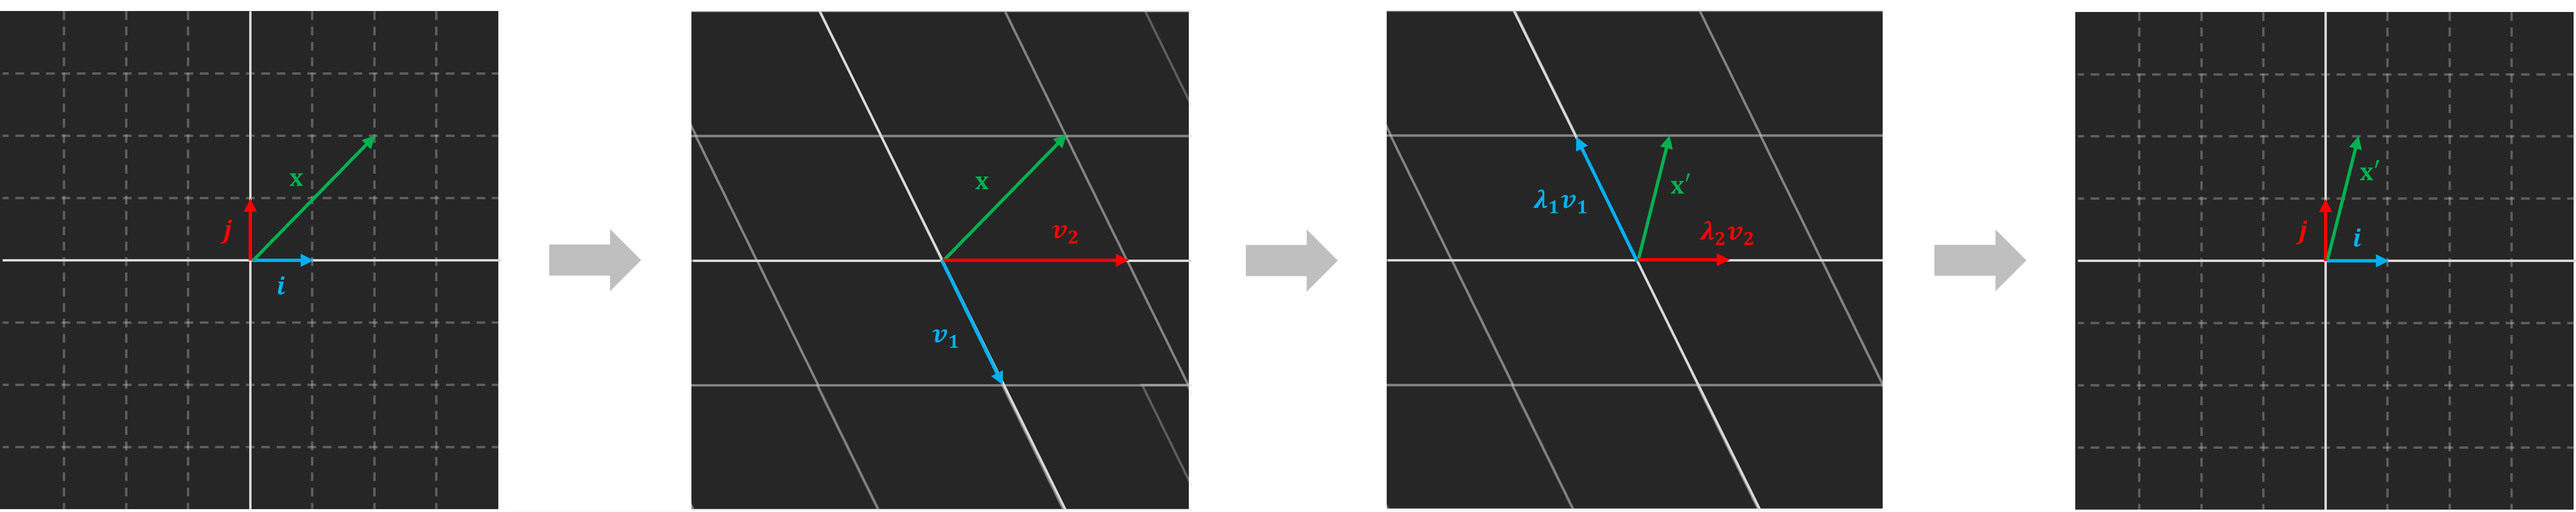
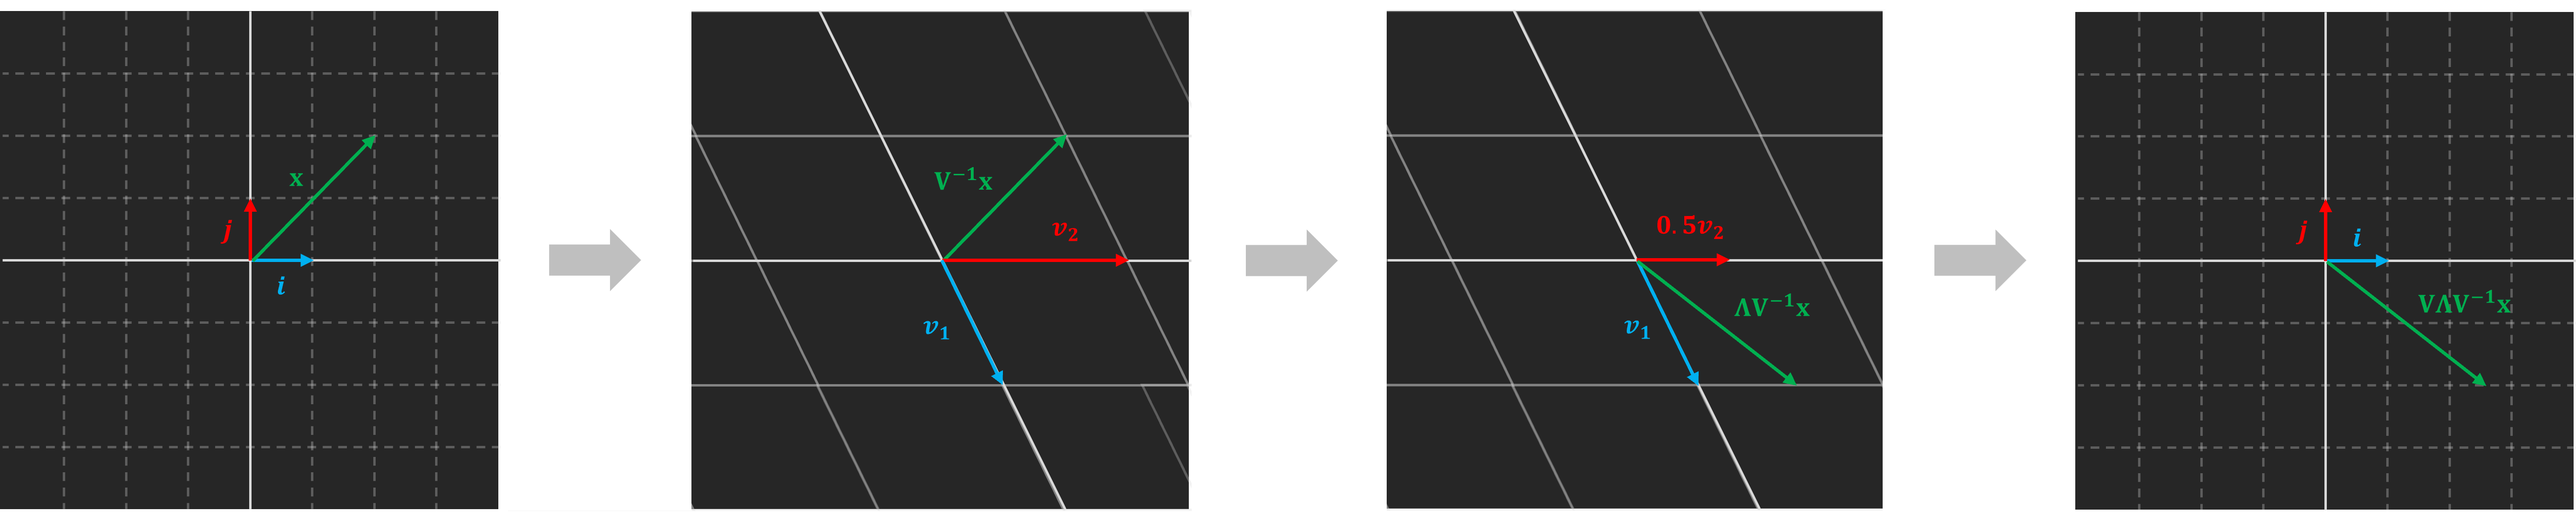
all

diff --git a/_posts/Mathematics/Linear_Algebra/2025-08-02-EVD.md b/_posts/Mathematics/Linear_Algebra/2025-08-02-EVD.md
@@ -49,7 +49,7 @@ $$
 
 ## 고유값 분해 (EVD - Eigenvalue Decomposition)
 
-EVD는 정사각 행렬 $A$를 고유벡터 행렬과 고유값이 대각 원소로 구성된 대각행렬로 분해하는 방법이다.
+EVD는 정사각 행렬 $A\in\mathbb{R}^{m\times m}$를 고유벡터 행렬과 고유값이 대각 원소로 구성된 대각행렬로 분해하는 방법이다.
 
 $$
 A=V\Lambda V^{-1}
@@ -60,11 +60,14 @@ $$
 
    $$
    V=\begin{bmatrix}|&|&&|\\\mathbf{v}_1&\mathbf{v}_2&\cdots&\mathbf{v}_n\\|&|&&|\end{bmatrix}
+   \in\mathbb{R}^{m\times n}
    $$
+   
 - $\Lambda$: 주대각선에 $A$의 고유값들이 나열된 대각 행렬
 
    $$
    \Lambda=\begin{bmatrix}\lambda_1&0&\cdots&0\\0&\lambda_2&\cdots&0\\\vdots&\vdots&\ddots&0\\0&0&0&\lambda_n\end{bmatrix}
+   \in\mathbb{R}^{n\times n}
    $$
 
 즉, EVD는 <span style="background-color:#fff5b1">대각화를 고유값과 고유벡터로 표현한 것</span>으로 볼 수 있다.
@@ -232,20 +235,67 @@ $$
 
 이는 오른쪽부터 차례대로 다음 세 단계를 거치는 것과 같다.
 
-1. $V^{-1}\mathbf{x}$
+1. $V^{-1}\mathbf{x}$: 기존 좌표계의 벡터 $\mathbf{x}$를 고유벡터들을 기저로 하는 좌표계에서의 좌표로 바꾼다.
 
-   기존 좌표계의 벡터 $\mathbf{x}$를 고유벡터들을 기저로 하는 좌표계에서의 좌표로 바꾼다.
+2. $\Lambda(V^{-1}\mathbf{x})$: 고유벡터 좌표계에서 각 성분을 해당 고유값 $\lambda_i$만큼 독립적으로 스케일링한다.
 
-2. $\Lambda(V^{-1}\mathbf{x})$
-
-   고유벡터 좌표계에서 각 성분을 해당 고유값 $\lambda_i$만큼 독립적으로 스케일링한다.
-
-3. $V(\Lambda V^{-1}\mathbf{x})$
-
-   스케일링된 결과를 다시 원래 좌표계로 되돌린다.
+3. $V(\Lambda V^{-1}\mathbf{x})$: 스케일링된 결과를 다시 원래 좌표계로 되돌린다.
 
 ![fig1](Mathematics/Linear_Algebra/EVD-1.png){: style="display:block; margin:0 auto; width:100%;"}
 
 따라서 $A$가 복잡한 변환처럼 보이더라도, 고유벡터 좌표계에서 보면 각 고유벡터 방향은 서로 섞이지 않고 자기 방향을 유지한 채 고유값만큼 늘어나거나 줄어든다.
 
-다만 여기서 주의할 점은, 일반적인 EVD에서 고유벡터들이 반드시 서로 직교하는 것은 아니라는 점이다. 따라서 $V^{-1}$와 $V$는 단순한 회전 변환이 아니라, 일반적인 기저 변환으로 이해하는 것이 정확하다. 특히 $A$가 대칭 행렬이면 고유벡터들을 직교정규 기저로 잡을 수 있고, 이때는 좌표계 변환을 회전 또는 반사처럼 더 직관적으로 해석할 수 있다.
+예를 들어, 유클리드 좌표계에 존재하는 벡터 $\mathbf{x}=2\mathbf{i}+2\mathbf{j}$에 선형 변환 $A$를 적용했다고 해보자.
+<br>
+또한 행렬 $A$는 다음과 같이 EVD가 된다고 가정해 보자.
+
+$$
+A=V\Lambda V^{-1}=
+\begin{bmatrix}1&3\\-2&0\end{bmatrix}
+\begin{bmatrix}-1&0\\0&0.5\end{bmatrix}
+\begin{bmatrix}1&3\\-2&0\end{bmatrix}^{-1}
+$$
+
+이때, $A\mathbf{x}$는 다음과 같이 3단계로 적용될 수 있다.
+
+![fig1](Mathematics/Linear_Algebra/EVD-1.png){: style="display:block; margin:0 auto; width:100%;"}
+
+1. 벡터 $\mathbf{x}$를 고유벡터 좌표계로 표현
+
+   $$
+   \mathbf{x}
+   =a_1\begin{bmatrix}1\\-2\end{bmatrix}
+   +a_2\begin{bmatrix}3\\0\end{bmatrix}
+   \quad\to\quad
+   a_1=-1~,~a_2=1
+   $$
+
+   즉, $\mathbf{x}$는 고유벡터 좌표계에서 $-\mathbf{v}_1+\mathbf{v}_2$로 표현된다.
+
+2. 고유값 $\lambda_1=-1,\lambda_2=0.5$ 적용 (Scaling)
+
+   $$
+   \lambda_1(-\mathbf{v}_1)+\lambda_2\mathbf{v}_2=
+   \mathbf{v}_1+0.5\mathbf{v}_2
+   =\begin{bmatrix}1\\-2\end{bmatrix}+
+   \begin{bmatrix}1.5\\0\end{bmatrix}
+   =\begin{bmatrix}2.5\\-2\end{bmatrix}
+   $$
+
+3. 원래 좌표계로 복원
+
+   $$
+   \begin{bmatrix}2.5\\-2\end{bmatrix}
+   =b_1\begin{bmatrix}1\\0\end{bmatrix}
+   +b_2\begin{bmatrix}0\\1\end{bmatrix}
+   \quad\to\quad
+   b_1=2.5~,~b_2=-2
+   $$
+
+   즉, $[2.5, -2]$는 유클리드 좌표계에서 $2.5\mathbf{i}-2\mathbf{j}$로 표현된다.
+
+즉, $A$에 의한 선형 변환의 결과는 다음과 같다.
+
+$$
+A\begin{bmatrix}2\\2\end{bmatrix}=\begin{bmatrix}2.5\\-2\end{bmatrix}
+$$

diff --git a/_posts/Mathematics/Linear_Algebra/2025-08-03-SVD.md b/_posts/Mathematics/Linear_Algebra/2025-08-03-SVD.md
@@ -10,24 +10,46 @@ author: sunho
 
 ## 특이값 분해 (SVD - Singularvalue Decomposition)
 
-SVD는 EVD와 달리 어떠한 행렬이든 3개의 행렬로 분해가 가능하다.
-
-![fig1](Mathematics/Linear_Algebra/SVD-1.png){: style="display:block; margin:0 auto; width:50%;"}
-_[[출처]](https://my-mindpalace.tistory.com/10)_
+SVD는 EVD와 달리 어떠한 행렬이든 다음 3개의 행렬로 분해가 가능하다.
 
 $$
 A=U\Sigma V^\top
 \tag{1}
 $$
 
-- $U\in\mathbb{R}^{m\times m}$: 각 열이 $A$의 특이 벡터들로 구성된 직교 행렬
-- $\Sigma\in\mathbb{R}^{m\times n}$: 주대각선에 $A$의 특이값들이 크기순으로 나열된 대각 행렬
+- $U$: 각 열이 $A$의 특이 벡터들로 구성된 직교 행렬
+
+    $$
+    U=\begin{bmatrix}|&|&&|\\\mathbf{v}_1&\mathbf{v}_2&\cdots&\mathbf{v}_n\\|&|&&|\end{bmatrix}
+    \in\mathbb{R}^{m\times m}
+    $$
+
+- $\Sigma$: 주대각선에 $A$의 특이값들이 크기순으로 나열된 대각 행렬
+
+    $$
+    \Sigma=\begin{bmatrix}\sigma_1&0&\cdots&0\\0&\sigma_2&\cdots&0\\\vdots&\vdots&\ddots&0\\0&0&\cdots&\sigma_n\\0&0&\cdots&0\end{bmatrix}
+    \in\mathbb{R}^{m\times n}
+    $$
+
 - $V\in\mathbb{R}^{n\times n}$: 각 열이 $A$의 특이 벡터들로 구성된 직교 행렬
+
+    $$
+    V=\begin{bmatrix}|&|&&|\\\mathbf{v}_1&\mathbf{v}_2&\cdots&\mathbf{v}_n\\|&|&&|\end{bmatrix}
+    \in\mathbb{R}^{n\times n}
+    $$
 
 ### SVD의 기하학적 의미
 
+SVD는 복잡해 보이는 변환 $A$를 고유벡터 좌표계에서는 훨씬 단순한 변환으로 볼 수 있다.
+
 ![fig2](Mathematics/Linear_Algebra/SVD-2.png){: style="display:block; margin:0 auto; width:70%;"}
 _[[출처]](https://my-mindpalace.tistory.com/10)_
+
+1. $V^\top\mathbf{x}$: 기존 좌표계의 벡터 $\mathbf{x}$를 고유벡터들을 기저로 하는 좌표계에서의 좌표로 바꾼다.
+
+2. $\Sigma(V^\top\mathbf{x})$: 고유벡터 좌표계에서 각 성분을 해당 고유값 $\lambda_i$만큼 독립적으로 스케일링한다.
+
+3. $U(\Sigma(V^\top\mathbf{x}))$: 스케일링된 결과를 다시 원래 좌표계로 되돌린다.
 
 - $V^\top$는 입력 공간의 기저를 회전시킨다.
 - $\Sigma$는 회전된 기저를 특이값의 크기만큼 늘리거나 줄인다. $\Sigma$는 비정사각행렬 $\mathbb{R}^{m\times n}$이기 때문에 출력 공간의
